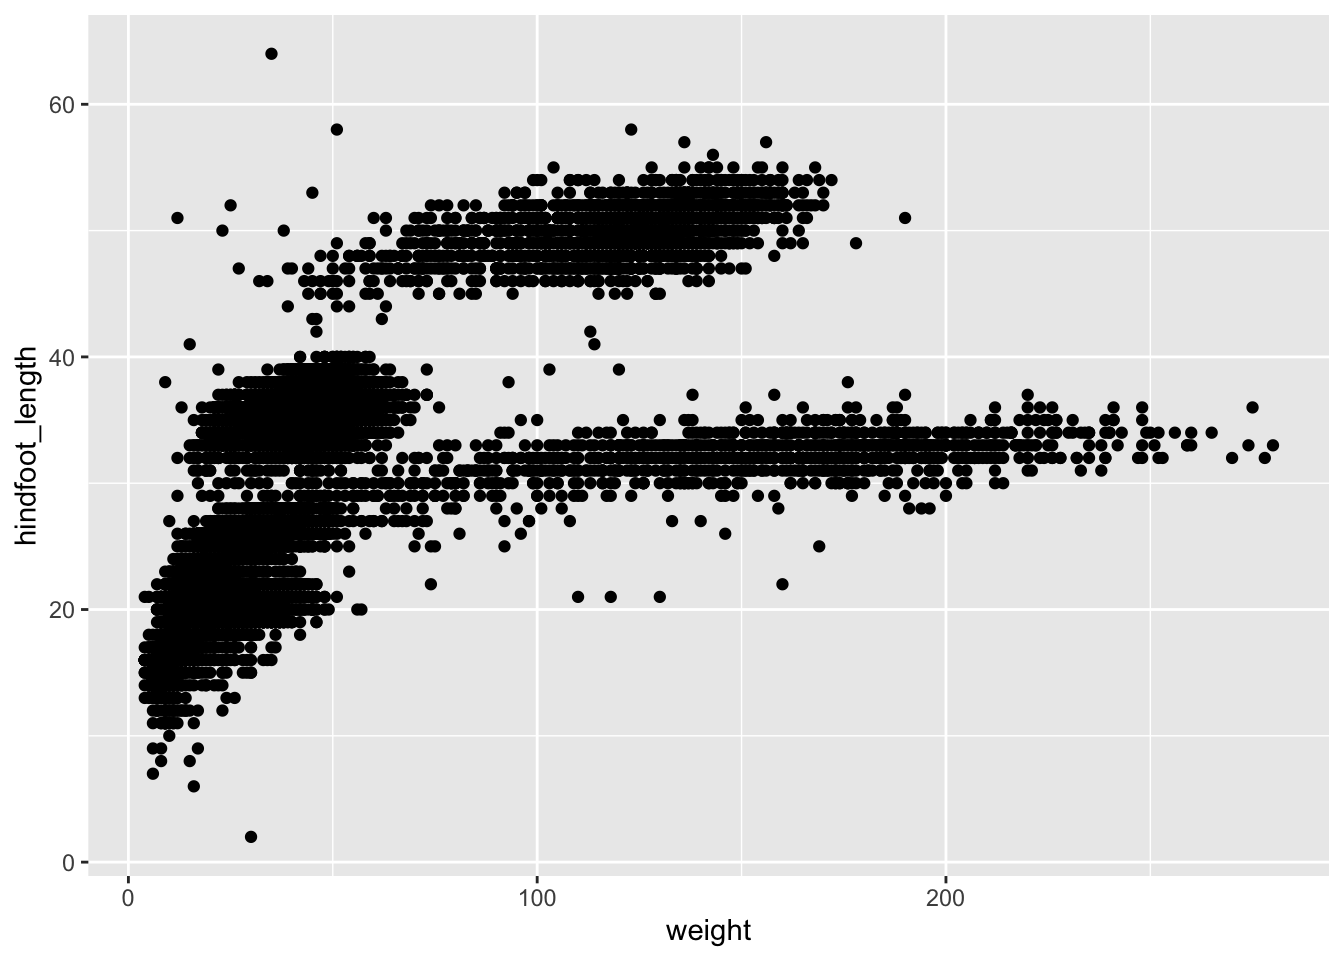
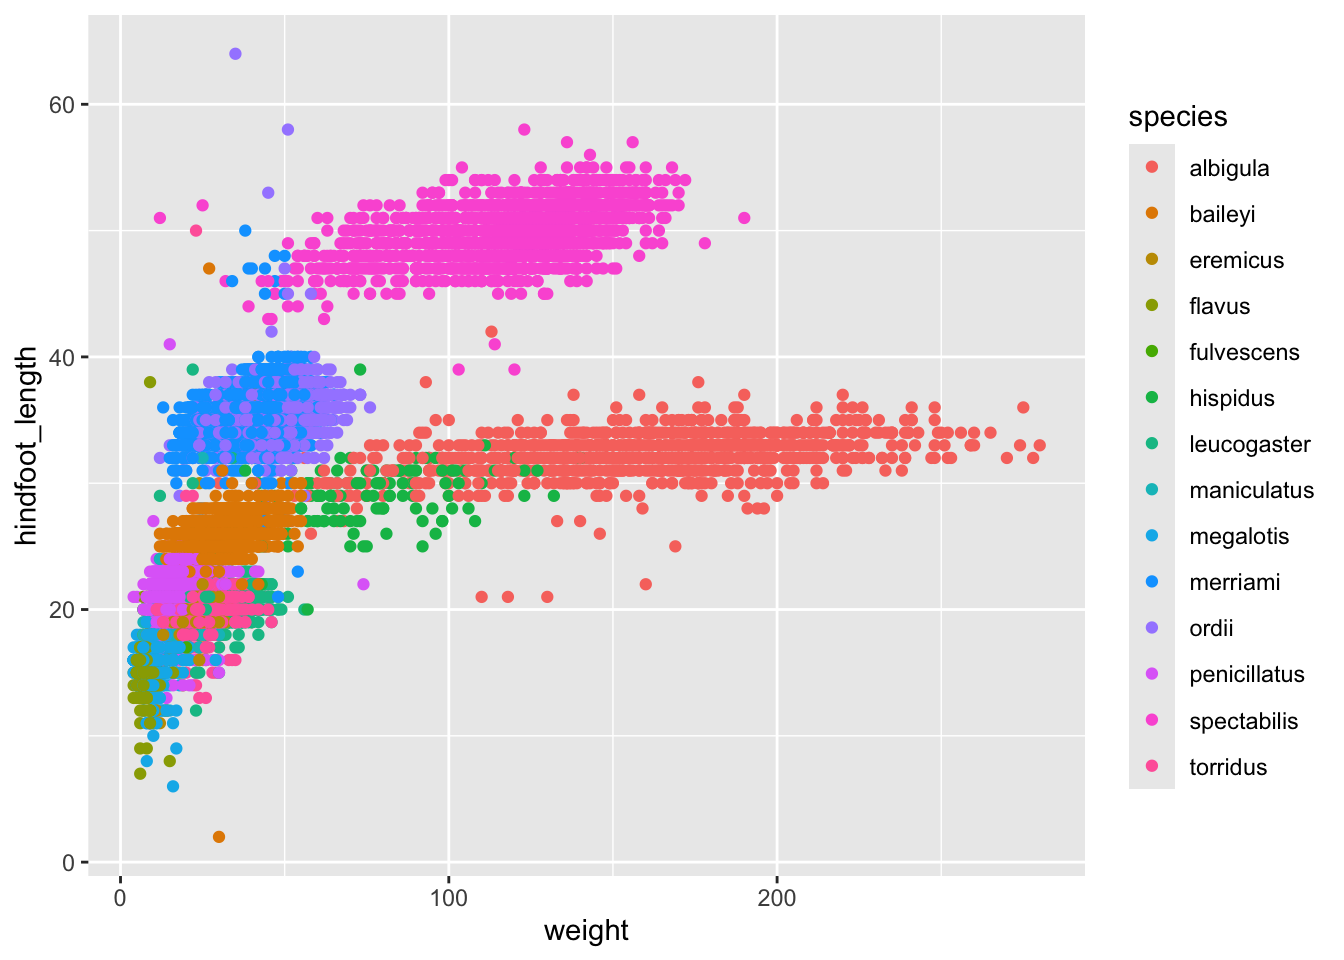
appropriate labels and titles were given to the scatterplot

diff --git a/lab-3-student.html b/lab-3-student.html
@@ -322,14 +322,40 @@ $ taxa            &lt;chr&gt; "Rodent", "Rodent", "Rodent", "Rodent", "Rodent", 
 <p><strong>3. First, let’s create a scatterplot of the relationship between <code>weight</code> (on the <span class="math inline">\(x\)</span>-axis) and <code>hindfoot_length</code> (on the <span class="math inline">\(y\)</span>-axis).</strong></p>
 <div class="cell">
 <div class="sourceCode cell-code" id="cb8"><pre class="sourceCode r code-with-copy"><code class="sourceCode r"><span id="cb8-1"><a href="#cb8-1" aria-hidden="true" tabindex="-1"></a><span class="fu">ggplot</span>(<span class="at">data =</span> surveys) <span class="sc">+</span> <span class="co"># creates scatterplot</span></span>
-<span id="cb8-2"><a href="#cb8-2" aria-hidden="true" tabindex="-1"></a>  (<span class="at">mapping =</span> <span class="fu">aes</span>(<span class="at">x =</span> weight, <span class="at">y =</span> hindfoot_length)) <span class="sc">+</span></span>
-<span id="cb8-3"><a href="#cb8-3" aria-hidden="true" tabindex="-1"></a>  <span class="fu">geom_point</span>()</span></code><button title="Copy to Clipboard" class="code-copy-button"><i class="bi"></i></button></pre></div>
+<span id="cb8-2"><a href="#cb8-2" aria-hidden="true" tabindex="-1"></a>  (<span class="at">mapping =</span> <span class="fu">aes</span>(<span class="at">x =</span> weight, <span class="at">y =</span> hindfoot_length, <span class="at">color =</span> species, <span class="at">fill =</span> species)) <span class="sc">+</span></span>
+<span id="cb8-3"><a href="#cb8-3" aria-hidden="true" tabindex="-1"></a>  <span class="fu">geom_point</span>(<span class="at">alpha =</span> <span class="dv">10</span>) <span class="co"># adds transparency to data points +</span></span></code><button title="Copy to Clipboard" class="code-copy-button"><i class="bi"></i></button></pre></div>
 <div class="cell-output-display">
 <div>
 <figure class="figure">
 <p><img src="lab-3-student_files/figure-html/scatterplot-1.png" class="img-fluid figure-img" width="672"></p>
 </figure>
 </div>
+</div>
+<div class="sourceCode cell-code" id="cb9"><pre class="sourceCode r code-with-copy"><code class="sourceCode r"><span id="cb9-1"><a href="#cb9-1" aria-hidden="true" tabindex="-1"></a>  <span class="fu">labs</span>(</span>
+<span id="cb9-2"><a href="#cb9-2" aria-hidden="true" tabindex="-1"></a>    <span class="at">title =</span> <span class="st">"Weight and Hindfoot Length Among Rodent Species"</span>,</span>
+<span id="cb9-3"><a href="#cb9-3" aria-hidden="true" tabindex="-1"></a>    <span class="at">x =</span> <span class="st">"Weight (g)"</span>,</span>
+<span id="cb9-4"><a href="#cb9-4" aria-hidden="true" tabindex="-1"></a>    <span class="at">y =</span> <span class="st">"Hindfoot Length (mm)"</span>, </span>
+<span id="cb9-5"><a href="#cb9-5" aria-hidden="true" tabindex="-1"></a>    <span class="at">color =</span> <span class="st">"Species"</span>,</span>
+<span id="cb9-6"><a href="#cb9-6" aria-hidden="true" tabindex="-1"></a>    <span class="at">shape =</span> <span class="st">"Species"</span></span>
+<span id="cb9-7"><a href="#cb9-7" aria-hidden="true" tabindex="-1"></a>  )</span></code><button title="Copy to Clipboard" class="code-copy-button"><i class="bi"></i></button></pre></div>
+<div class="cell-output cell-output-stdout">
+<pre><code>$x
+[1] "Weight (g)"
+
+$y
+[1] "Hindfoot Length (mm)"
+
+$colour
+[1] "Species"
+
+$shape
+[1] "Species"
+
+$title
+[1] "Weight and Hindfoot Length Among Rodent Species"
+
+attr(,"class")
+[1] "labels"</code></pre>
 </div>
 </div>
 <p>We can see there are <strong>a lot</strong> of points plotted on top of each other. Let’s try and modify this plot to extract more information from it.</p>
